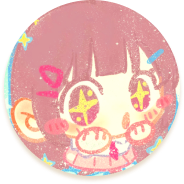
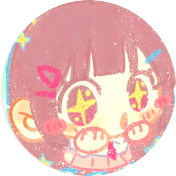
[fea]使用枚举类实现了性别选择的边框

diff --git a/lib/screens/entry_pages/gender_selection.dart b/lib/screens/entry_pages/gender_selection.dart
@@ -9,17 +9,21 @@ class GenderSelectionPage extends StatefulWidget {
   @override
   _GenderSelectionPage createState() => _GenderSelectionPage();
 }
+enum Gender { none, female, male }
+
 
 class _GenderSelectionPage extends State<GenderSelectionPage> {
+  Gender _selectedGender = Gender.none;
+
   @override
   Widget build(BuildContext context) {
     return Container(
       decoration: const BoxDecoration(
           gradient: RadialGradient(
-        colors: [ColorUtils.bg_yellow, ColorUtils.bg_white],
-        center: Alignment.center,
-        radius: 1.5,
-      )),
+            colors: [ColorUtils.bg_yellow, ColorUtils.bg_white],
+            center: Alignment.center,
+            radius: 1.5,
+          )),
       child: Scaffold(
         backgroundColor: Colors.transparent,
         appBar: AppBar(
@@ -37,7 +41,7 @@ class _GenderSelectionPage extends State<GenderSelectionPage> {
         body: Padding(
           padding: EdgeInsets.symmetric(horizontal: 20.h),
           child:
-              Column(crossAxisAlignment: CrossAxisAlignment.start, children: [
+          Column(crossAxisAlignment: CrossAxisAlignment.start, children: [
             Text(
               'Hi,你的性别是？',
               style: TextStyle(
@@ -50,19 +54,27 @@ class _GenderSelectionPage extends State<GenderSelectionPage> {
               style: TextStyle(color: ColorUtils.text_yellow, fontSize: 26.sp),
             ),
             SizedBox(height: 30.w),
-            //巧用center组件，直接放在屏幕中间
             Center(
               child: Column(
                 children: [
                   InkWell(
                     onTap: () {
-                      setState(() {});
+                      setState(() {
+                        _selectedGender = _selectedGender == Gender.female
+                            ? Gender.none
+                            : Gender.female;
+                      });
                     },
                     child: Container(
                         decoration: BoxDecoration(
-                            border:
-                                Border.all(color: ColorUtils.shadow, width: 5)),
-                        child: Image.asset('assets/images/female.png')),
+                          shape: BoxShape.circle,
+                          border: _selectedGender == Gender.female
+                              ? Border.all(color: ColorUtils.shadow, width: 8.r)
+                              : Border.all(color: Colors.transparent, width: 8.r),
+                        ),
+                        child: ClipOval(
+                            child: Image.asset('assets/images/female.png',
+                                width: 180.h, height: 180.w, fit: BoxFit.cover))),
                   ),
                   SizedBox(height: 10.w),
                   const Row(
@@ -77,14 +89,24 @@ class _GenderSelectionPage extends State<GenderSelectionPage> {
                   ),
                   SizedBox(height: 20.w),
                   InkWell(
+                    splashFactory: NoSplash.splashFactory,
                     onTap: () {
-                      setState(() {});
+                      setState(() {
+                        _selectedGender = _selectedGender == Gender.male
+                            ? Gender.none
+                            : Gender.male;
+                      });
                     },
                     child: Container(
                         decoration: BoxDecoration(
-                            border:
-                                Border.all(color: ColorUtils.shadow, width: 5)),
-                        child: Image.asset('assets/images/male.png')),
+                          shape: BoxShape.circle,
+                          border: _selectedGender == Gender.male
+                              ? Border.all(color: ColorUtils.shadow, width: 8.r)
+                              : Border.all(color: Colors.transparent, width: 8.r),
+                        ),
+                        child: ClipOval(
+                            child: Image.asset('assets/images/male.png',
+                                width: 180.h, height: 180.w, fit: BoxFit.cover))),
                   ),
                   SizedBox(height: 10.w),
                   const Row(
@@ -97,13 +119,15 @@ class _GenderSelectionPage extends State<GenderSelectionPage> {
                       Text('男生')
                     ],
                   ),
+                  SizedBox(height: 20.w),
                   InkWell(
+                    splashFactory: NoSplash.splashFactory,
                     onTap: () {
                       Navigator.push(
                           context,
                           MaterialPageRoute(
                               builder: (context) =>
-                                  const NameAgeSelectionPage()));
+                              const NameAgeSelectionPage()));
                     },
                     child: Container(
                         width: 240.h,
@@ -120,9 +144,6 @@ class _GenderSelectionPage extends State<GenderSelectionPage> {
                               color: ColorUtils.text_brown),
                         )),
                   ),
-                  SizedBox(
-                    height: 40.h,
-                  )
                 ],
               ),
             ),

diff --git a/.dart_tool/dartpad/web_plugin_registrant.dart b/.dart_tool/dartpad/web_plugin_registrant.dart
@@ -7,10 +7,12 @@
 // ignore_for_file: type=lint
 
 import 'package:audioplayers_web/audioplayers_web.dart';
+import 'package:shared_preferences_web/shared_preferences_web.dart';
 import 'package:flutter_web_plugins/flutter_web_plugins.dart';
 
 void registerPlugins([final Registrar? pluginRegistrar]) {
   final Registrar registrar = pluginRegistrar ?? webPluginRegistrar;
   AudioplayersPlugin.registerWith(registrar);
+  SharedPreferencesPlugin.registerWith(registrar);
   registrar.registerMessageHandler();
 }
